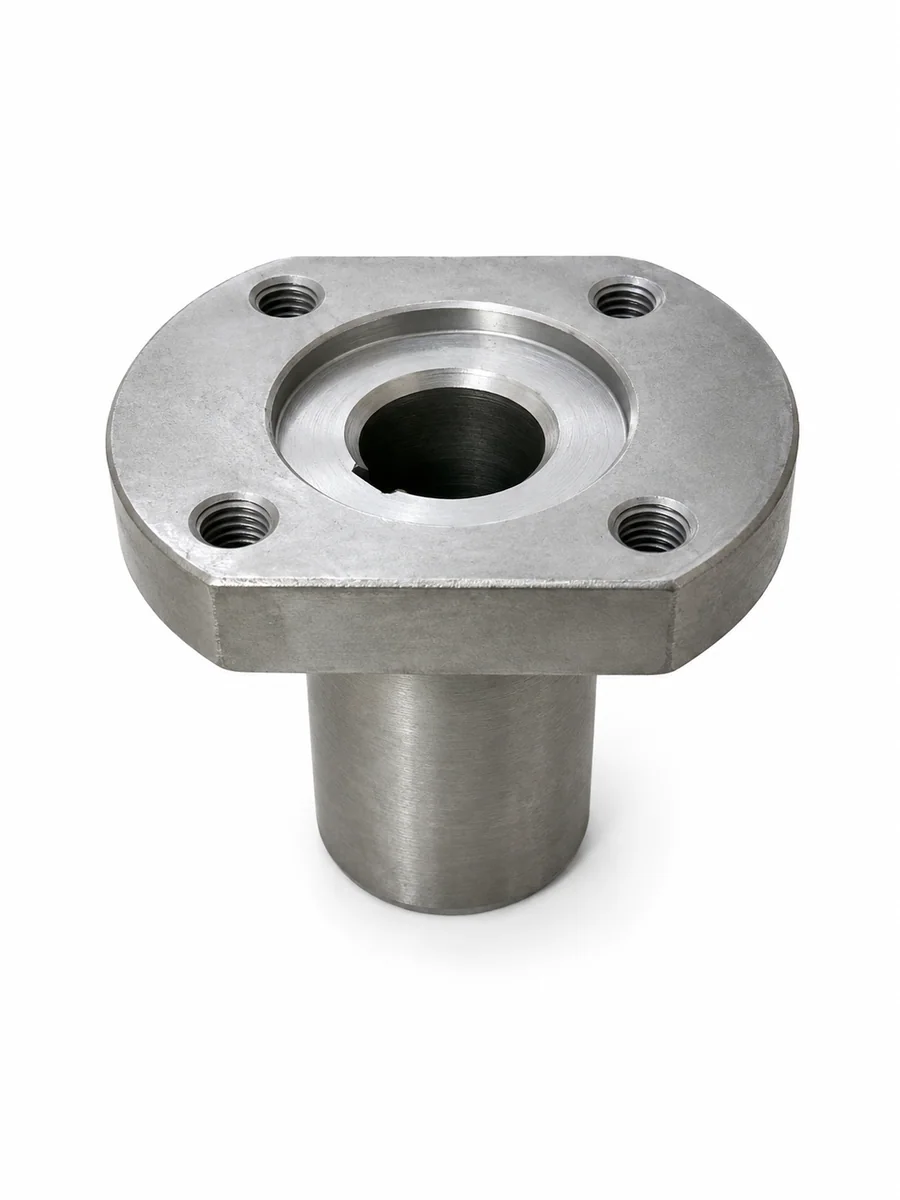
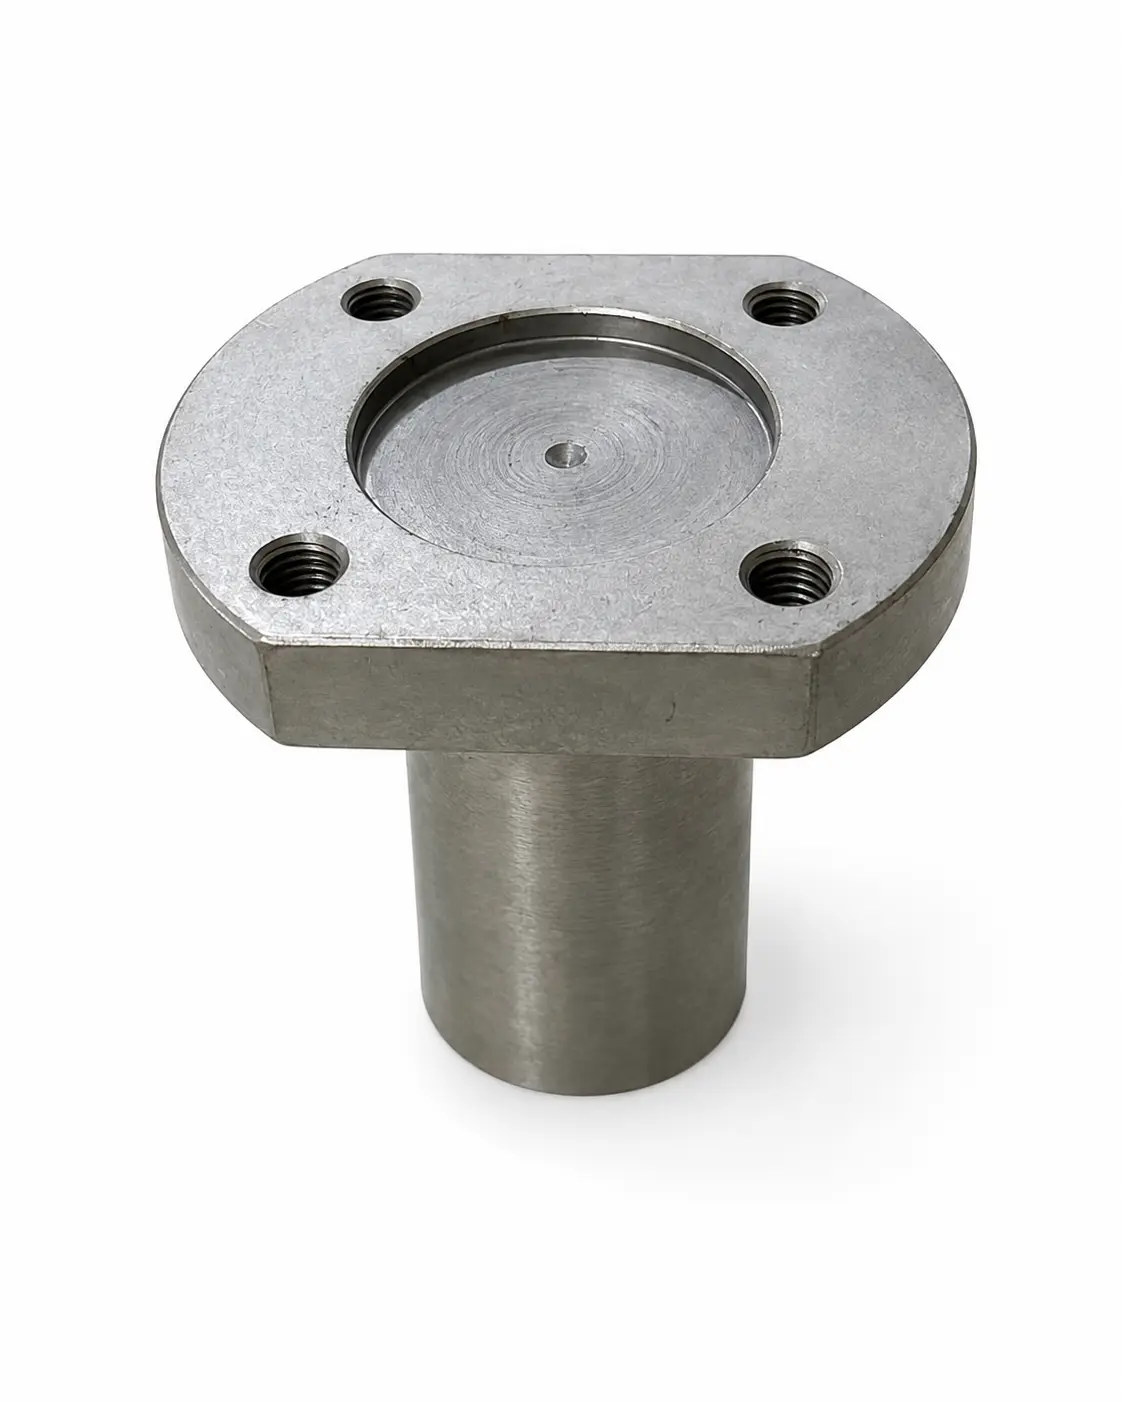
feat(homepage): Add supplied pump product media
Expose the client-supplied pump product in the featured homepage catalog while preserving the existing product route and local asset flow.\n\nCo-Authored-By: OpenAI Codex <noreply@openai.com>

Changed region(s): [[0.0933, 0.1542, 0.9022, 0.8017], [0.4978, 0.6475, 0.5289, 0.6783]]

diff --git a/src/lib/homepage-data.ts b/src/lib/homepage-data.ts
@@ -216,7 +216,7 @@ export async function getSiteSettings(): Promise<HomepageSiteSettings> {
 function buildFallbackHomepageData(): HomepageData {
   return {
     categories: buildFallbackCategories(),
-    featuredProducts: fallbackCatalogProducts.slice(0, 6).map((product) => ({
+    featuredProducts: fallbackCatalogProducts.filter((product) => product.featured).map((product) => ({
       id: product.id,
       name: product.name,
       slug: product.slug,
@@ -257,7 +257,7 @@ export async function getHomepageData(): Promise<HomepageData> {
         payload.find({
           collection: 'products',
           depth: 1,
-          limit: 6,
+          limit: 7,
           sort: '-updatedAt',
           where: {
             and: [{ active: { equals: true } }, { featured: { equals: true } }],

diff --git a/tests/int/catalog.int.spec.ts b/tests/int/catalog.int.spec.ts
@@ -7,7 +7,7 @@ describe('catalog fallback data', () => {
   it('keeps every supplied product file as a distinct committed catalog record', () => {
     expect(fallbackCatalogManifest.totalSourceFiles).toBe(57)
     expect(fallbackCatalogManifest.catalogRecords).toBe(57)
-    expect(fallbackCatalogManifest.uniqueVisualAssets).toBe(50)
+    expect(fallbackCatalogManifest.uniqueVisualAssets).toBe(51)
     expect(fallbackCatalogManifest.products).toHaveLength(57)
     expect(new Set(fallbackCatalogManifest.products.map((product) => product.image)).size).toBe(57)
     expect(new Set(fallbackCatalogManifest.products.map((product) => product.slug)).size).toBe(57)

diff --git a/tests/int/vercel-client-preview.int.spec.ts b/tests/int/vercel-client-preview.int.spec.ts
@@ -39,7 +39,7 @@ describe('Vercel client preview mode', () => {
 
     expect(data.contentSource).toBe('fallback')
     expect(data.categories).toHaveLength(4)
-    expect(data.featuredProducts).toHaveLength(6)
+    expect(data.featuredProducts).toHaveLength(7)
     expect(data.siteSettings.primaryPhone).toBe('01031080031')
   })
 })

diff --git a/docs/image-sources.md b/docs/image-sources.md
@@ -8,7 +8,7 @@ This record covers production assets used by the Al Firdous homepage. Brand mark
 | ------------------------------------------------ | ---------------------------------------- | ------------------------------------------------------ | -------------------------------------------------------------------------------------- |
 | `public/images/brand/al-firdous-logo.webp`       | Header                                   | Client-supplied `logo.png`                             | Official Al Firdous logo, losslessly resized for the web.                              |
 | `public/images/brand/al-firdous-logo-white.webp` | Footer                                   | Client-supplied `footer-logo.png`                      | Official white Al Firdous logo, losslessly resized for the web.                        |
-| `public/images/products/catalog/*.webp`         | Catalog and featured products            | Client-supplied product photography in `firdous-media` | 50 unique visual assets resized and compressed locally; exact duplicate source aliases are documented in `docs/product-media-inventory.md`. |
+| `public/images/products/catalog/*.webp`         | Catalog and featured products            | Client-supplied product photography in `firdous-media` plus the supplied `جنب قلاب داخلي مقفول.webp` product image | 51 unique visual assets resized and compressed locally; exact duplicate source aliases are documented in `docs/product-media-inventory.md`. |
 | `public/images/home/about-parts.webp`            | About preview and general-parts category | Composite of client-supplied product photography       | Four supplied product photos arranged on a neutral background.                         |
 
 ## Generated visual
@@ -23,9 +23,9 @@ This record covers production assets used by the Al Firdous homepage. Brand mark
 
 | Local file                              | Homepage use        | Original source                                                                                                  | Provider / license                          |
 | --------------------------------------- | ------------------- | ---------------------------------------------------------------------------------------------------------------- | ------------------------------------------- |
-| `public/images/home/category-pump.webp` | Pump-parts category | [Zoomlion 101 Pump Truck 20210522](https://commons.wikimedia.org/wiki/File:Zoomlion_101_Pump_Truck_20210522.jpg) | Wikimedia Commons; Huangdan2060; CC BY 3.0. |
+| `public/images/home/category-pump.webp` | Pump-parts category | Client-supplied `مضخات.webp` | Supplied project media; copied and retained as a local WebP asset. |
 
-The downloaded photograph was cropped, resized, and compressed to WebP for its listed homepage placement.
+The supplied photograph was copied to the listed local WebP asset for its homepage placement.
 
 ## Supported-brand marks
 

diff --git a/docs/product-media-inventory.md b/docs/product-media-inventory.md
@@ -3,7 +3,7 @@
 - Source folder: `A:/Downloads/firdous-media`
 - Source files processed: 57
 - Catalog records published: 57
-- Unique visual hashes (diagnostic only): 50
+- Unique visual hashes (diagnostic only): 51
 - Category mapping: all supplied media is mapped to `concrete-pump-parts` because the supplied inventory is concrete-pump spare-part media.
 - Brand mapping: all supplied records are mapped to the confirmed supported-brand record `Schwing`, per the production catalog brief.
 - Every source file is a distinct product record, including files with identical hashes. No source files are merged.
@@ -11,7 +11,6 @@
 ## Exact duplicate source groups (retained as separate records)
 
 - `جشمة بستم ضح 125 شيفينج.png` = `جشمة بستم ضخ 120 شيفينج.png`
-- `جنب قلاب داخلي مفتوح شيفينج_.png` = `جنب قلاب داخلي مقفول شيفينج_.png`
 - `حلقة 230 شيفينج جودة عالية_.png` = `حلقة 250 شيفينج جودة عالية.png`
 - `حلقة 230 شيفينج.png` = `حلقة 250 شيفينج_.png`
 - `كافر مرايا شيفينج 230.png` = `كافر مرايا شيفينج 250.png`
@@ -43,7 +42,7 @@
 | 19 | جلبة حشو قلاب صغيرة شيفينج | `schwing-pump-part-19-8fc43a44` | `جلبة حشو قلاب صغيرة شيفينج.png` | `/images/products/catalog/schwing-pump-part-19-8fc43a44.webp` |
 | 20 | جنب قلاب حديث شيفينج | `schwing-pump-part-20-9f42d2db` | `جنب قلاب حديث شيفينج.jpg` | `/images/products/catalog/schwing-pump-part-20-9f42d2db.webp` |
 | 21 | جنب قلاب داخلي مفتوح شيفينج | `schwing-pump-part-21-158d131d` | `جنب قلاب داخلي مفتوح شيفينج_.png` | `/images/products/catalog/schwing-pump-part-21-158d131d.webp` |
-| 22 | جنب قلاب داخلي مقفول شيفينج | `schwing-pump-part-22-158d131d` | `جنب قلاب داخلي مقفول شيفينج_.png` | `/images/products/catalog/schwing-pump-part-22-158d131d.webp` |
+| 22 | جنب قلاب داخلي مقفول شيفينج | `schwing-pump-part-22-158d131d` | `جنب قلاب داخلي مقفول.webp` | `/images/products/catalog/schwing-pump-part-22-158d131d.webp` |
 | 23 | جنب قلاب مفتوح شيفينج | `schwing-pump-part-23-b90a1cc4` | `جنب قلاب مفتوح شيفينج.jpg` | `/images/products/catalog/schwing-pump-part-23-b90a1cc4.webp` |
 | 24 | جنب قلاب مقفول شيفينج | `schwing-pump-part-24-89621704` | `جنب قلاب مقفول شيفينج.jpg` | `/images/products/catalog/schwing-pump-part-24-89621704.webp` |
 | 25 | حلقة 210 شيفينج | `schwing-pump-part-25-b5637e71` | `حلقة 210 شيفينج.png` | `/images/products/catalog/schwing-pump-part-25-b5637e71.webp` |

diff --git a/docs/local-payload-cms.md b/docs/local-payload-cms.md
@@ -72,7 +72,7 @@ Import the exact taxonomy, media, and product records with:
 npm run import:catalog
 ```
 
-The import is idempotent by category/brand slug, product slug, and media filename. Re-running it updates the existing 57 products rather than creating duplicates. Every imported product is assigned to `concrete-pump-parts` and the `Schwing` brand, with `active: true`, `availability: on-request`, a real local media record, and the six deterministic featured records from the prepared manifest.
+The import is idempotent by category/brand slug, product slug, and media filename. Re-running it updates the existing 57 products rather than creating duplicates. Every imported product is assigned to `concrete-pump-parts` and the `Schwing` brand, with `active: true`, `availability: on-request`, a real local media record, and the seven deterministic featured records from the prepared manifest.
 
 Seed the confirmed SiteSettings values and the provided logo with:
 
@@ -95,7 +95,7 @@ Verify the actual Payload database directly (not fallback JSON) with:
 npm run verify:local-cms
 ```
 
-The verification checks 57 unique products, four categories, three brands, product images, pump-part/Schwing assignments, six featured products, five contacts, the primary WhatsApp value, logo/social settings, and that no inquiries were seeded.
+The verification checks 57 unique products, four categories, three brands, product images, pump-part/Schwing assignments, seven featured products, five contacts, the primary WhatsApp value, logo/social settings, and that no inquiries were seeded.
 
 ## Preview versus normal mode
 
